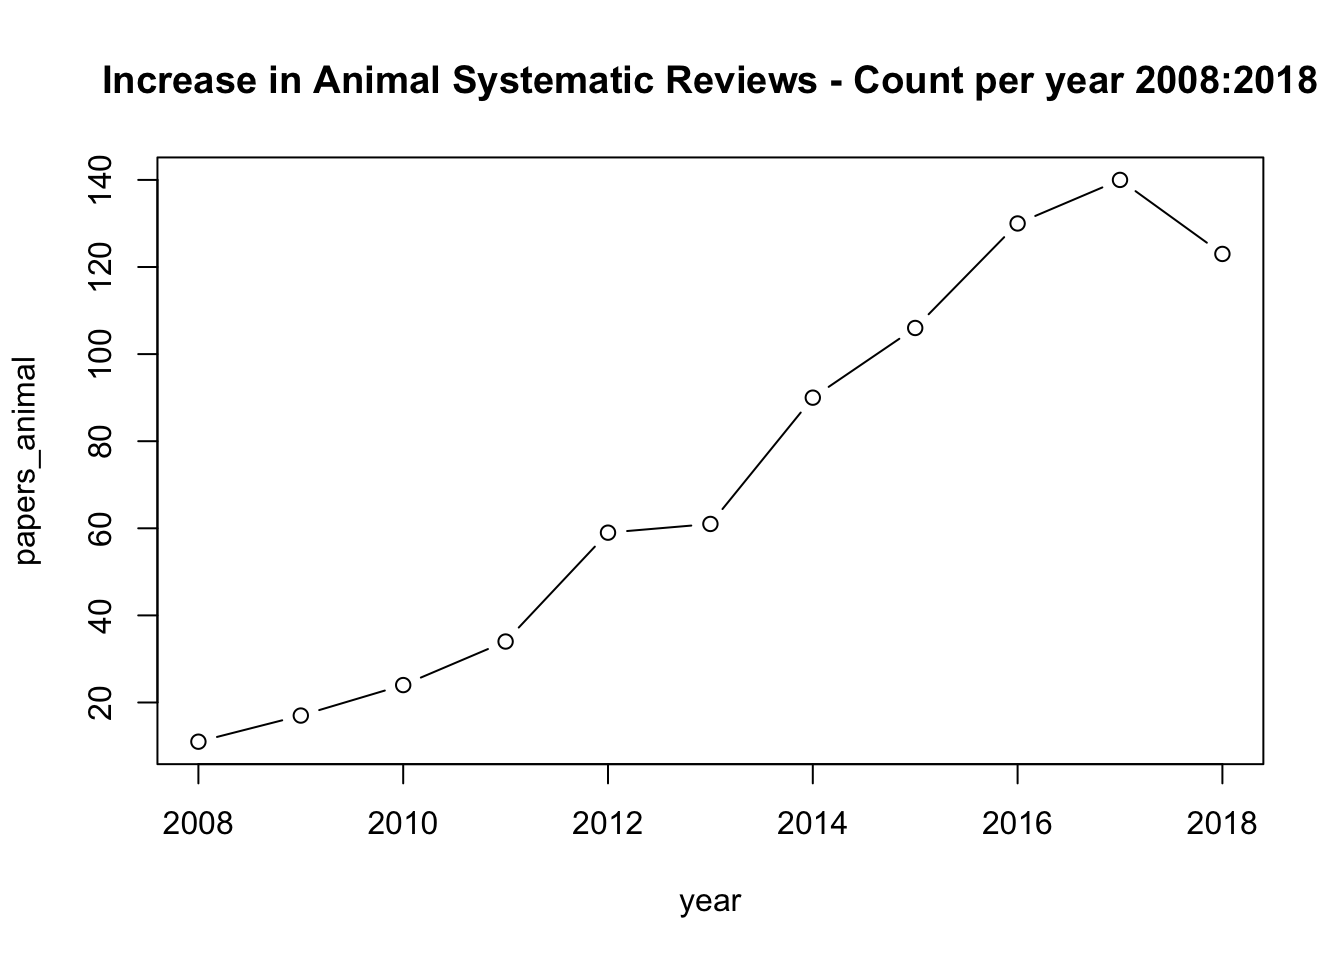
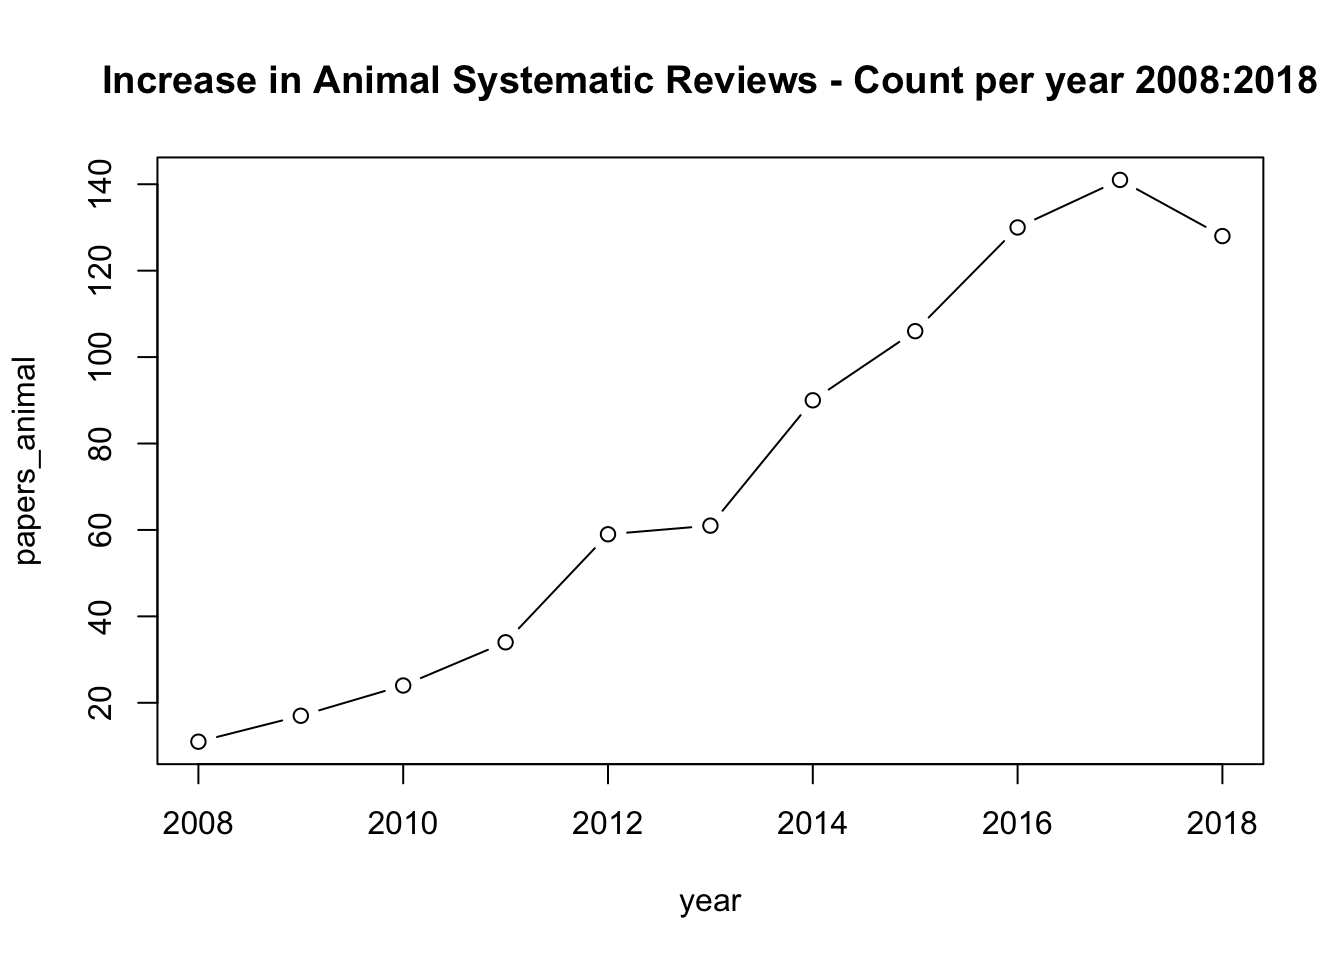
small typos and PROSPERO addition

diff --git a/docs/_site/PROSPERO.html b/docs/_site/PROSPERO.html
@@ -11,9 +11,9 @@
 
 <meta name="author" content="Alexandra Bannach-Brown on behalf of the EQUATOR Network" />
 
-<meta name="date" content="2019-05-23" />
+<meta name="date" content="2019-05-28" />
 
-<title>Summary from ClinicalTrials.gov</title>
+<title>PROSPERO</title>
 
 <script src="site_libs/jquery-1.11.3/jquery.min.js"></script>
 <meta name="viewport" content="width=device-width, initial-scale=1" />
@@ -313,47 +313,20 @@ $(document).ready(function () {
 
 
 
-<h1 class="title toc-ignore">Summary from ClinicalTrials.gov</h1>
+<h1 class="title toc-ignore">PROSPERO</h1>
 <h4 class="author">Alexandra Bannach-Brown on behalf of the EQUATOR Network</h4>
-<h4 class="date">2019-05-23</h4>
+<h4 class="date">28 May 2019</h4>
 
 </div>
 
 
 <div id="introduction" class="section level2">
 <h2>Introduction</h2>
-<p>This is document which shows the summary information from ClinicalTrials.gov <a href="http://clinicaltrials.gov" class="uri">http://clinicaltrials.gov</a>. This document is built for the EQUATOR Network.</p>
+<p>This is document which shows the summary information from [PROSPERO] (<a href="https://www.crd.york.ac.uk/prospero/" class="uri">https://www.crd.york.ac.uk/prospero/</a>) about systematic reviews. This document is built for the EQUATOR Network.</p>
 </div>
-<div id="number-of-trials" class="section level2">
-<h2>Number of Trials</h2>
-<p>The number of records in clinicaltrials.gov is:</p>
-<pre class="r"><code>clinicaltrials_count(query = &quot;ALL&quot;)</code></pre>
-<pre><code>## [1] 308699</code></pre>
-</div>
-<div id="actively-recruiting-trials" class="section level2">
-<h2>Actively Recruiting Trials</h2>
-<p>The number of trials that are currently recruiting is:</p>
-<pre class="r"><code>clinicaltrials_count(query = c(&quot;recr=Recruiting&quot;, &quot;ALL&quot;))</code></pre>
-<pre><code>## [1] 50854</code></pre>
-</div>
-<div id="completed-trials" class="section level2">
-<h2>Completed Trials</h2>
-<p>The number of trials that are marked as completed:</p>
-<pre class="r"><code>clinicaltrials_count(query = c(&quot;recr=Completed&quot;, &quot;ALL&quot;))</code></pre>
-<pre><code>## [1] 164731</code></pre>
-</div>
-<div id="new-trials-in-2018" class="section level2">
-<h2>New Trials in 2018</h2>
-<p>The number of new trials posted in 2018 is:</p>
-<pre class="r"><code>clinicaltrials_count(query = c(&quot;rcv_s=01/01/2018&quot;, &quot;rcv_e=12/31/2018&quot;))</code></pre>
-<pre><code>## [1] 30984</code></pre>
-</div>
-<div id="new-trials-in-2019" class="section level2">
-<h2>New Trials in 2019</h2>
-<p>The number of new trials posted in 2019 is:</p>
-<pre class="r"><code>clinicaltrials_count(query = c(&quot;rcv_s=01/01/2019&quot;, &quot;rcv_e=12/31/2019&quot;))</code></pre>
-<pre><code>## [1] 15339</code></pre>
-<p>Please contact Alexandra Bannach-Brown <a href="mailto:alexandra_bannachbrown@bond.edu.au">mailto:alexandra_bannachbrown@bond.edu.au</a> if you have any questions.</p>
+<div id="data" class="section level2">
+<h2>Data</h2>
+<p>Data from PROSPERO is kindly provided by XX at PROSPERO, XX role.</p>
 </div>
 
 <p>Copyright &copy; 2019 EQUATOR Network - CC-BY-4.0.</p>

diff --git a/docs/_site/pubmed_sys_rev.html b/docs/_site/pubmed_sys_rev.html
@@ -282,7 +282,7 @@ $(document).ready(function () {
         <span class="icon-bar"></span>
         <span class="icon-bar"></span>
       </button>
-      <a class="navbar-brand" href="index.html">EQUATOR Numbers</a>
+      <a class="navbar-brand" href="index.html">EQUATOR Summary</a>
     </div>
     <div id="navbar" class="navbar-collapse collapse">
       <ul class="nav navbar-nav">
@@ -294,6 +294,9 @@ $(document).ready(function () {
 </li>
 <li>
   <a href="pubmed_sys_rev.html">Systematic Reviews</a>
+</li>
+<li>
+  <a href="PROSPERO.html">SR Protocols</a>
 </li>
 <li>
   <a href="about.html">About</a>
@@ -328,7 +331,7 @@ $(document).ready(function () {
 sys_rev_human_query &lt;- &quot;(systematic review[PTYP] AND human[MESH])&quot;
 sys_rev_human_search &lt;- entrez_search(db = &quot;pubmed&quot;, sys_rev_human_query, use_history = TRUE )
 sys_rev_human_search$count</code></pre>
-<pre><code>## [1] 105503</code></pre>
+<pre><code>## [1] 106761</code></pre>
 <p>We can visualise the number of systematic reviews published in the past 10 years.</p>
 <pre class="r"><code>sys_rev_year &lt;- function(year, term){
   query &lt;- paste(term, &quot;AND(&quot;, year, &quot;[PDAT])&quot;)
@@ -348,7 +351,7 @@ plot(year, papers, type=&#39;b&#39;, main=&quot;Increase in Human Systematic Rev
 
 sys_rev_animal_search &lt;- entrez_search(db = &quot;pubmed&quot;, alt_animal_query, use_history = TRUE )
 sys_rev_animal_search$count</code></pre>
-<pre><code>## [1] 746</code></pre>
+<pre><code>## [1] 756</code></pre>
 <p>We can visualise the number of animal systematic reviews published in the past 10 years.</p>
 <pre class="r"><code>sys_rev_year &lt;- function(year, term){
   query &lt;- paste(term, &quot;AND(&quot;, year, &quot;[PDAT])&quot;)

diff --git a/docs/_site/index.html b/docs/_site/index.html
@@ -11,7 +11,7 @@
 
 
 
-<title>EQUATOR Network Numbers</title>
+<title>EQUATOR Network - Summary</title>
 
 <script src="site_libs/jquery-1.11.3/jquery.min.js"></script>
 <meta name="viewport" content="width=device-width, initial-scale=1" />
@@ -280,7 +280,7 @@ $(document).ready(function () {
         <span class="icon-bar"></span>
         <span class="icon-bar"></span>
       </button>
-      <a class="navbar-brand" href="index.html">EQUATOR Numbers</a>
+      <a class="navbar-brand" href="index.html">EQUATOR Summary</a>
     </div>
     <div id="navbar" class="navbar-collapse collapse">
       <ul class="nav navbar-nav">
@@ -292,6 +292,9 @@ $(document).ready(function () {
 </li>
 <li>
   <a href="pubmed_sys_rev.html">Systematic Reviews</a>
+</li>
+<li>
+  <a href="PROSPERO.html">SR Protocols</a>
 </li>
 <li>
   <a href="about.html">About</a>
@@ -308,12 +311,12 @@ $(document).ready(function () {
 
 
 
-<h1 class="title toc-ignore">EQUATOR Network Numbers</h1>
+<h1 class="title toc-ignore">EQUATOR Network - Summary</h1>
 
 </div>
 
 
-<p>This website provides up-to-dates numbers of different publication types and summary information from a number of different sources on the numbers of publications. This website is built for the EQUATOR Network.</p>
+<p>This website provides up-to-date summaries of different publication types and summary information from a number of different sources on the numbers of publications. This website is built for the EQUATOR Network.</p>
 <p>Please contact Alexandra Bannach-Brown <a href="mailto:alexandra_bannachbrown@bond.edu.au">mailto:alexandra_bannachbrown@bond.edu.au</a> if you have any questions.</p>
 
 <p>Copyright &copy; 2019 EQUATOR Network - CC-BY-4.0.</p>

diff --git a/docs/_site/about.html b/docs/_site/about.html
@@ -280,7 +280,7 @@ $(document).ready(function () {
         <span class="icon-bar"></span>
         <span class="icon-bar"></span>
       </button>
-      <a class="navbar-brand" href="index.html">EQUATOR Numbers</a>
+      <a class="navbar-brand" href="index.html">EQUATOR Summary</a>
     </div>
     <div id="navbar" class="navbar-collapse collapse">
       <ul class="nav navbar-nav">
@@ -292,6 +292,9 @@ $(document).ready(function () {
 </li>
 <li>
   <a href="pubmed_sys_rev.html">Systematic Reviews</a>
+</li>
+<li>
+  <a href="PROSPERO.html">SR Protocols</a>
 </li>
 <li>
   <a href="about.html">About</a>
